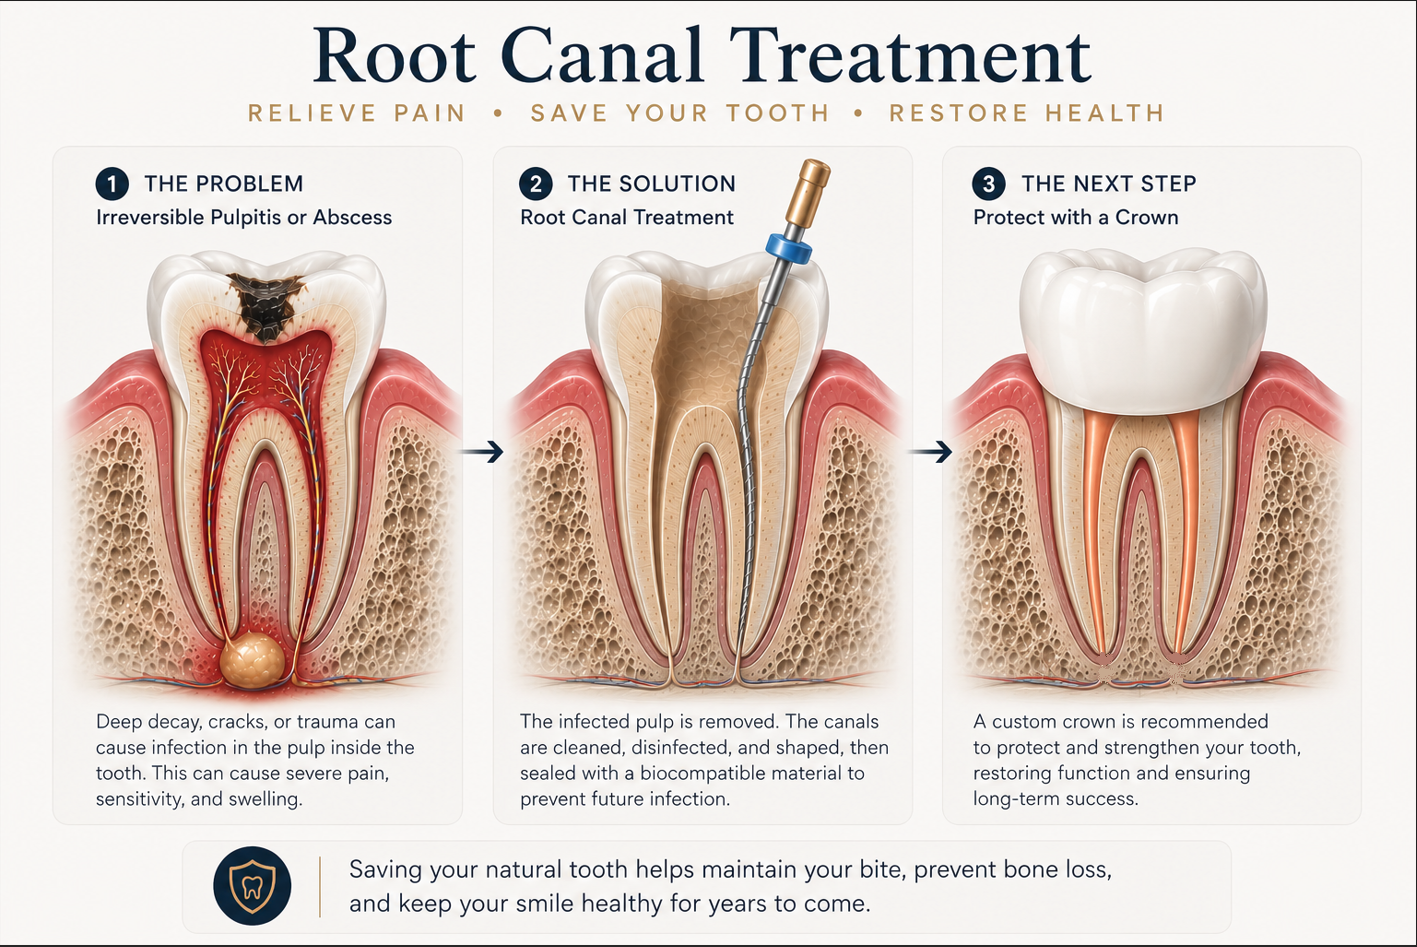
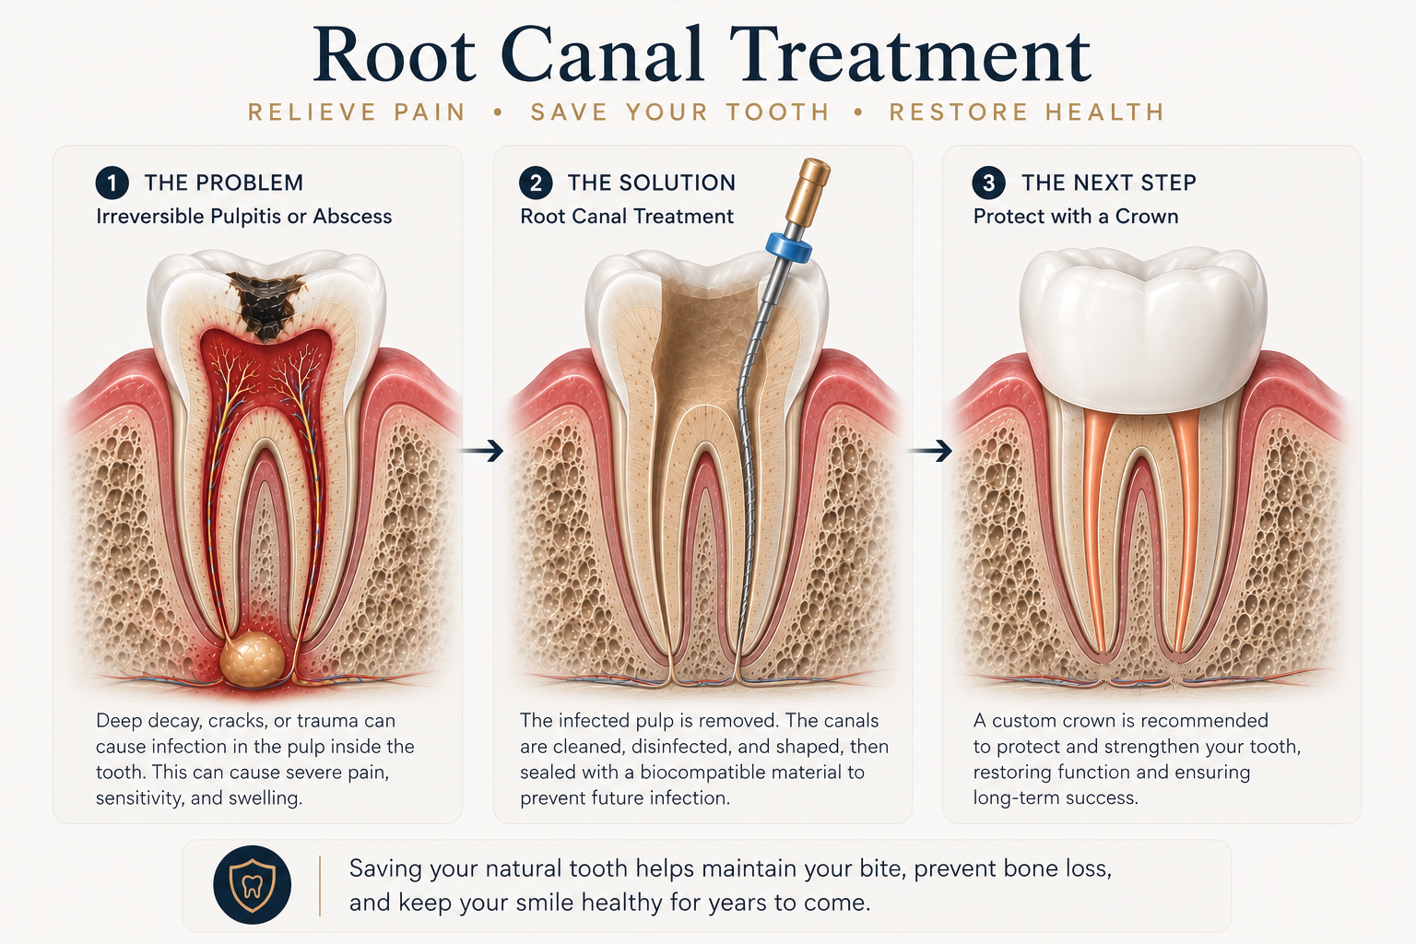
polish reviews and root canal infographic

diff --git a/index.html b/index.html
@@ -239,34 +239,34 @@
       </div>
 
       <div class="grid grid-cols-1 md:grid-cols-3 gap-7">
-        <article class="bg-stone border border-teal-light p-8 md:p-10 min-h-[420px] flex flex-col card-shadow">
+        <article class="bg-white/95 border border-white/80 p-8 md:p-10 min-h-[420px] flex flex-col shadow-[0_14px_42px_rgba(44,62,62,0.06)]">
           <div class="text-teal text-sm tracking-[0.28em] mb-8">★★★★★</div>
-          <p class="font-display text-xl leading-9 italic text-charcoal/70 flex-1">
+          <p class="font-display text-xl leading-9 italic text-charcoal/80 flex-1">
             "From the moment I walked in it was such a great experience. The staff is friendly and professional. Dr. Jeff is a natural with his patients."
           </p>
-          <div class="border-t border-teal-light pt-5 mt-10">
+          <div class="border-t border-teal-light/80 pt-5 mt-10">
             <p class="font-body text-sm font-semibold text-charcoal">Linda Skidmore</p>
             <p class="font-body text-xs text-teal-dark mt-1">Google Review</p>
           </div>
         </article>
 
-        <article class="bg-stone border border-teal-light p-8 md:p-10 min-h-[420px] flex flex-col card-shadow">
+        <article class="bg-white/95 border border-white/80 p-8 md:p-10 min-h-[420px] flex flex-col shadow-[0_14px_42px_rgba(44,62,62,0.06)]">
           <div class="text-teal text-sm tracking-[0.28em] mb-8">★★★★★</div>
-          <p class="font-display text-xl leading-9 italic text-charcoal/70 flex-1">
+          <p class="font-display text-xl leading-9 italic text-charcoal/80 flex-1">
             "Dr. Jeff and his staff are outstanding!! He took the time to explain my options and answer all my questions with care and empathy."
           </p>
-          <div class="border-t border-teal-light pt-5 mt-10">
+          <div class="border-t border-teal-light/80 pt-5 mt-10">
             <p class="font-body text-sm font-semibold text-charcoal">Sherri Pearson</p>
             <p class="font-body text-xs text-teal-dark mt-1">Google Review</p>
           </div>
         </article>
 
-        <article class="bg-stone border border-teal-light p-8 md:p-10 min-h-[420px] flex flex-col card-shadow">
+        <article class="bg-white/95 border border-white/80 p-8 md:p-10 min-h-[420px] flex flex-col shadow-[0_14px_42px_rgba(44,62,62,0.06)]">
           <div class="text-teal text-sm tracking-[0.28em] mb-8">★★★★★</div>
-          <p class="font-display text-xl leading-9 italic text-charcoal/70 flex-1">
+          <p class="font-display text-xl leading-9 italic text-charcoal/80 flex-1">
             "I truly enjoyed my experience at Elm Ridge! From securing an appointment to checkout, this is by far the best experience I've had with a dental practice."
           </p>
-          <div class="border-t border-teal-light pt-5 mt-10">
+          <div class="border-t border-teal-light/80 pt-5 mt-10">
             <p class="font-body text-sm font-semibold text-charcoal">Katherine Shamard</p>
             <p class="font-body text-xs text-teal-dark mt-1">Google Review · Local Guide</p>
           </div>